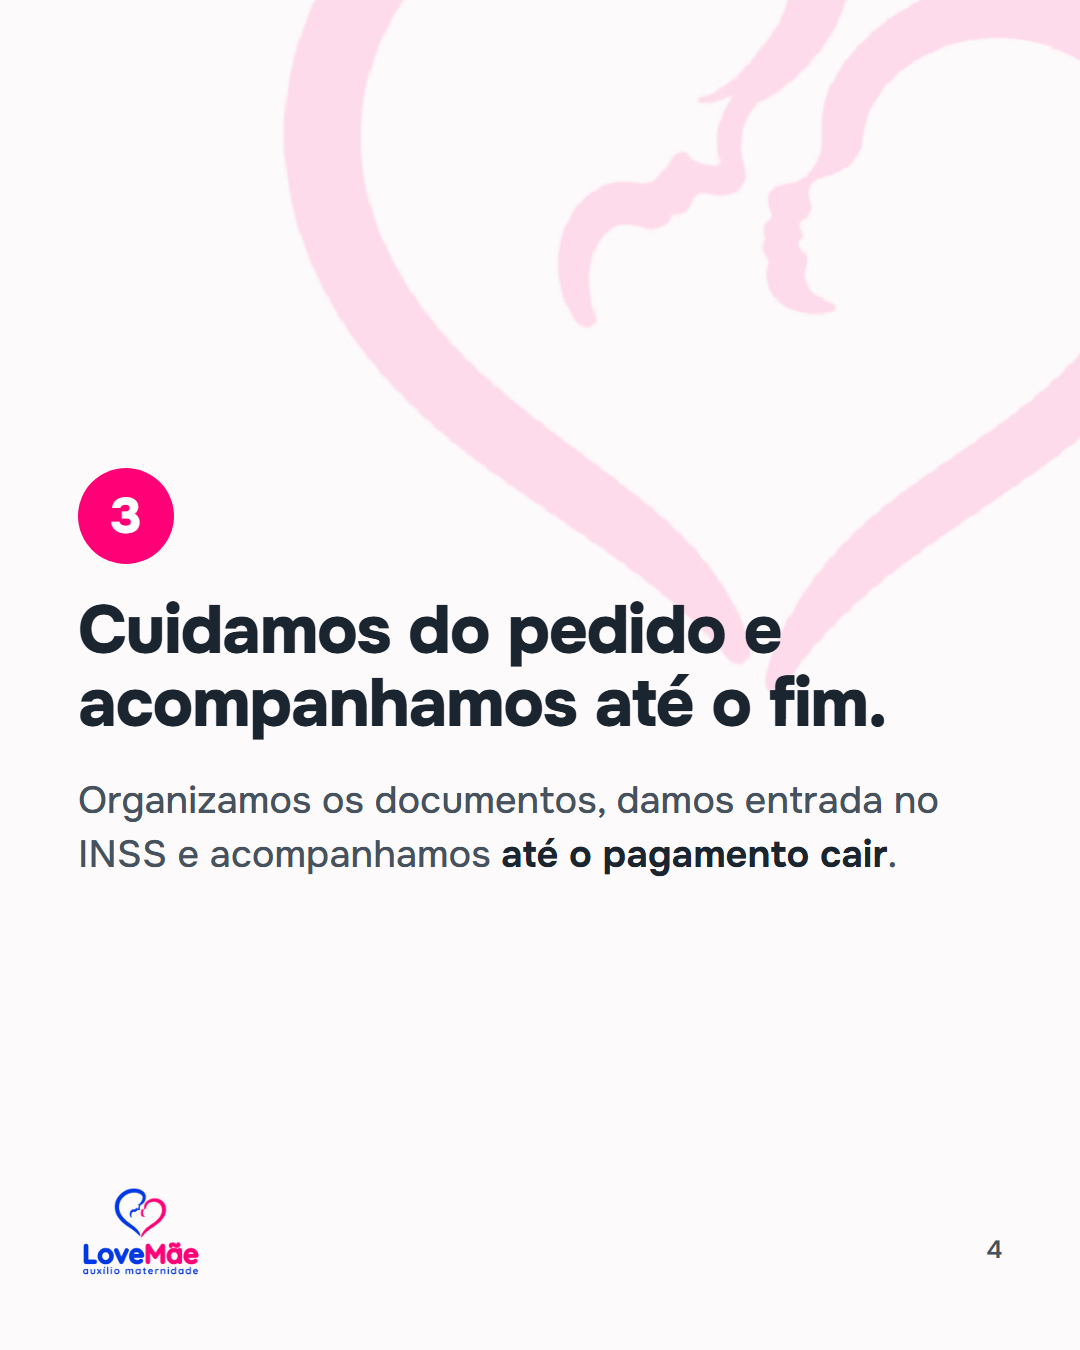
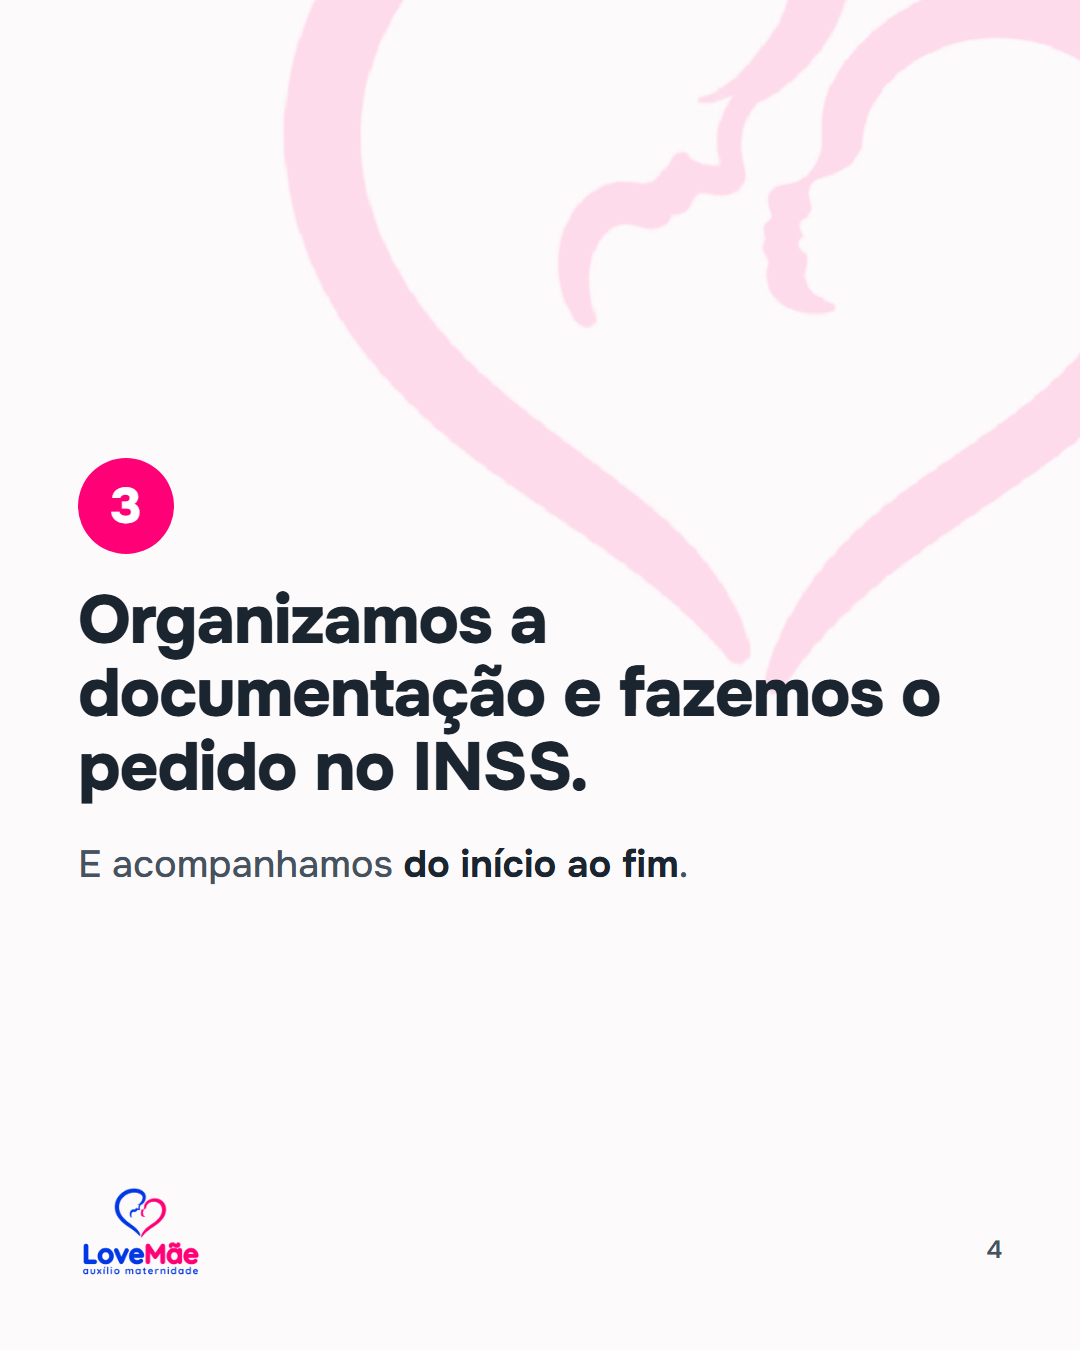
carrossel 3: copy revisada e número da página legível no slide rosa

Changed region(s): [[0.0611, 0.3422, 0.8861, 0.6533]]

diff --git a/marketing/conteudo/carrossel-como-funciona-2026-09-17/legenda.md b/marketing/conteudo/carrossel-como-funciona-2026-09-17/legenda.md
@@ -1,10 +1,10 @@
 # Carrossel 3 da trilogia — "Como funciona com a LoveMãe"
 
-Produzido em 17/09/2026. Post **fixado** no topo do perfil (o terceiro).
-6 slides, 1080×1350. Capa rosa (decisão de 17/09/2026).
+Produzido em 17/09/2026. Copy revisada pela empresa em 18/09/2026.
+Post **fixado** no topo do perfil (o terceiro). 6 slides, 1080×1350.
 
 ⚠ **Antes de publicar:** o time de operação precisa confirmar que o passo a passo
-descreve o processo real (análise → contato no WhatsApp → entrada e acompanhamento no INSS).
+descreve o processo real (questionário → avaliação e mensagem → entrada e acompanhamento no INSS).
 
 ## Legenda
 
@@ -12,13 +12,13 @@ Como funciona pedir o auxílio-maternidade com a LoveMãe 💗
 
 A gente sabe: INSS assusta. Fila, documento, site que cai, resposta que não vem. Por isso o nosso processo é simples assim:
 
-1⃣ Você responde 6 perguntas no site — leva 2 minutos, direto do celular
-2⃣ A gente analisa o seu caso e te chama no WhatsApp, sem juridiquês
-3⃣ Cuidamos dos documentos, damos entrada e acompanhamos até o pagamento cair
+1⃣ Você responde um questionário rápido no site — leva 2 minutos, direto do celular
+2⃣ Nossa equipe faz uma avaliação detalhada do seu caso e te envia uma mensagem explicando cada detalhe do benefício
+3⃣ Organizamos a documentação, fazemos o pedido no INSS e acompanhamos do início ao fim
 
-🔒 E o mais importante: **nunca pedimos a sua senha do gov.br**. Nenhuma etapa precisa dela.
+🔒 E o mais importante: **nunca pedimos a sua senha do gov.br**. Em nenhuma fase do atendimento iremos solicitar a sua senha — garantimos sigilo total das suas informações.
 
-Já são mais de 5 mil mães aprovadas. A análise é gratuita e sem compromisso — você só decide depois de saber se tem direito e qual o valor.
+A análise é gratuita e sem compromisso: você só decide depois de saber se tem direito e qual o valor.
 
 ➡ Arraste e veja o passo a passo.
 
@@ -40,10 +40,10 @@ https://www.lovemaeauxiliomaternidade.com.br/?utm_source=instagram&utm_medium=po
 | Slide | Arquivo |
 |---|---|
 | 1 (capa) | `slide-1.png` |
-| 2 — passo 1 | `slide-2.png` |
-| 3 — passo 2 | `slide-3.png` |
-| 4 — passo 3 | `slide-4.png` |
-| 5 — segurança | `slide-5.png` |
+| 2 — passo 1: questionário no site | `slide-2.png` |
+| 3 — passo 2: avaliação e retorno | `slide-3.png` |
+| 4 — passo 3: documentação e pedido no INSS | `slide-4.png` |
+| 5 — segurança (senha do gov.br) | `slide-5.png` |
 | 6 — CTA | `slide-6.png` |
 
 Regerar: `NODE_PATH=../../../identidade/propostas/node_modules node gerar.cjs`
